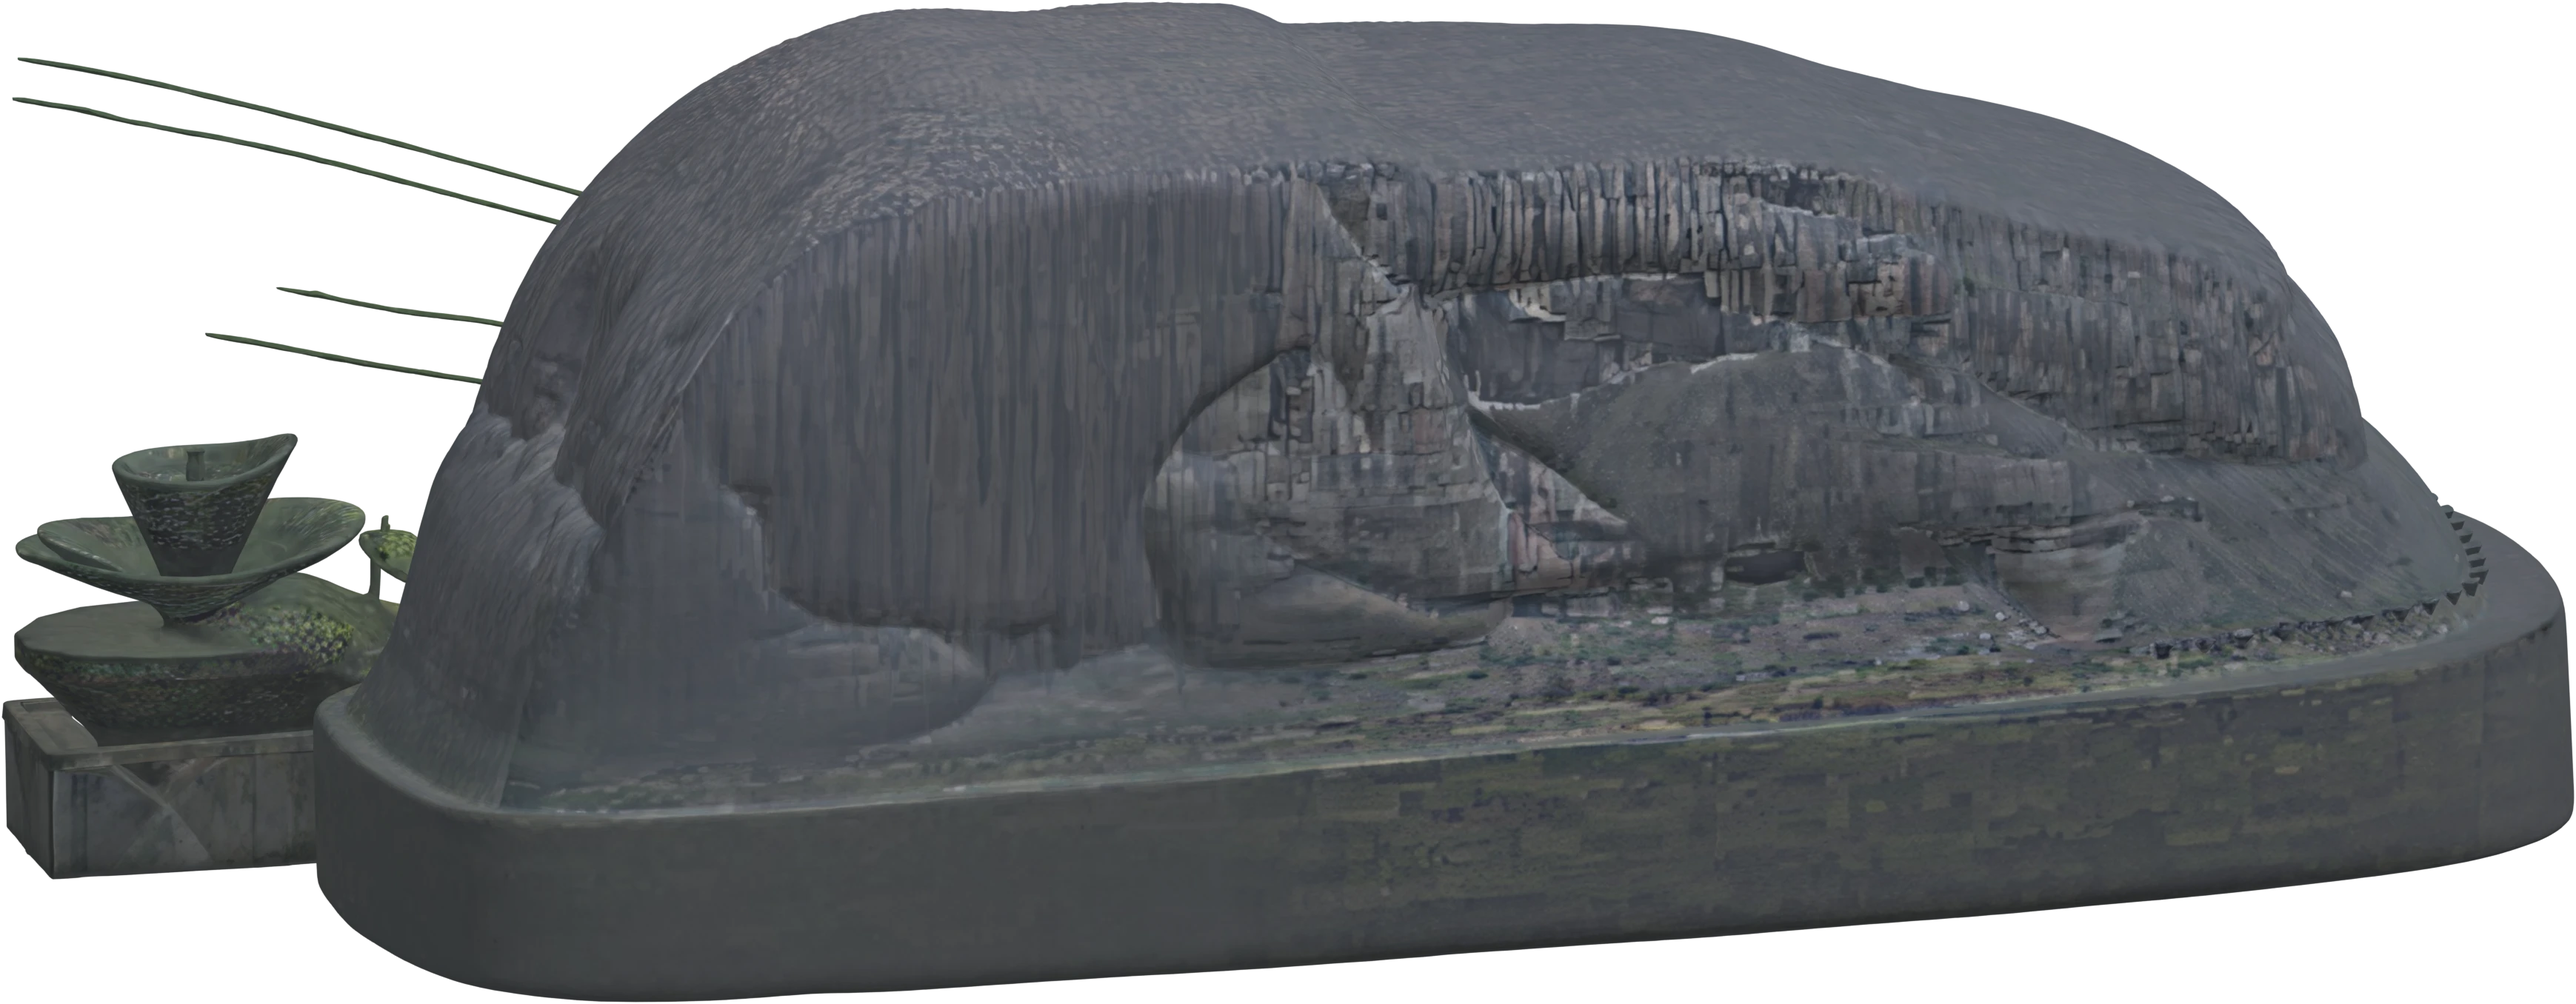
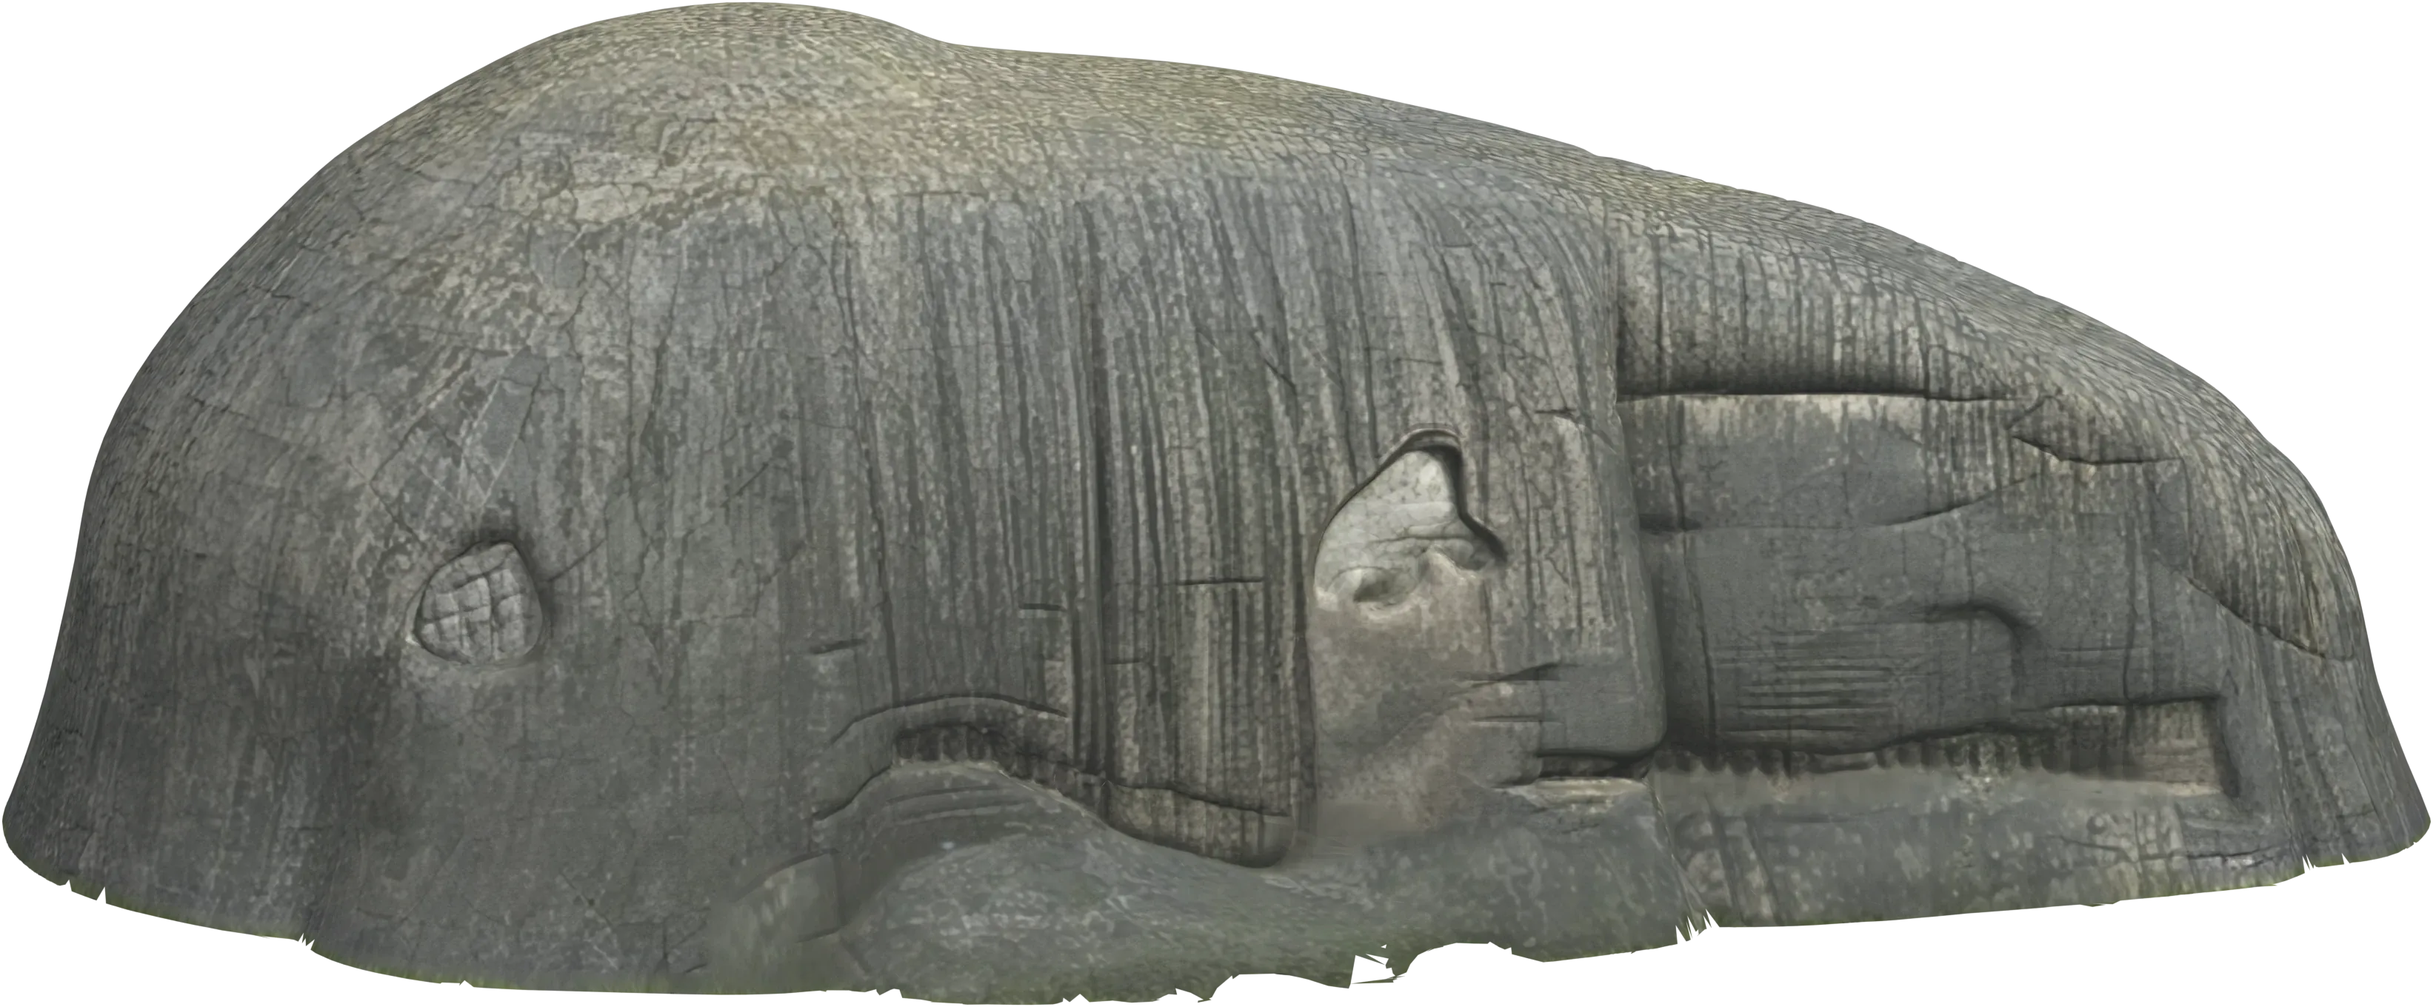
Légende (canal de test) : Sagrada Família, Zuma Rock, dragon, taxi et bus refaits dans Tripo
La Sagrada était tronquée (photo en contre-plongée), le Zuma Rock un pavé
avec les lignes électriques de sa photo, le dragon du parc Güell des boules
sur deux pieds, le taxi et le bus des boîtes. Chacun repart d'une image
isolée (Nano Banana dans Tripo, d'après une photo Commons pour les trois
premiers) puis d'un Modèle HD H3.1.

- legende_pieces.py : les pièces TRIPO se rendent depuis leur glb
  (assets-sources/legende/refonte-0910), à leur hauteur réelle, avec une
  saturation qui ravive le jaune du taxi et le rouge du bus.
- legende_monuments.py : --sans-herbe retire le disque d'herbe que Tripo
  pose sous un rocher isolé (faces vertes, puis miettes après soudure des
  coutures d'UV) ; --socle coupe sous une hauteur.
- WebP repassés en q80 (711 Ko pour les cinq, 658 avant).

diff --git a/tools/blender/decors/legende_monuments.py b/tools/blender/decors/legende_monuments.py
@@ -3,7 +3,8 @@
 #
 #   blender -b --factory-startup -P tools/blender/decors/legende_monuments.py -- \
 #       --source <modele Tripo .glb|.fbx> --cle londres [--rot 0] [--elev 14] \
-#       [--haut 1400] [--brume r,g,b,part] [--apercu4 vues.png]
+#       [--haut 1400] [--brume r,g,b,part] [--socle 0.04] [--sans-herbe]
+#       [--apercu4 vues.png]
 #
 # Un monument de la Legende ne se pose pas dans le stade : il se tient au
 # loin, derriere la tribune, a une position d'ECRAN (game/legende/decors.ts),
@@ -14,6 +15,9 @@
 #
 # Ce que fait ce script a un modele Tripo :
 #   1. il le reduit (un modele HD fait pres d'un million de faces) ;
+#   1b. avec --socle h, il retire ce qui est sous h (part de la hauteur) ;
+#      avec --sans-herbe, les faces que la texture peint en vert : le disque
+#      d'herbe et les buissons que Tripo pose sous un rocher isole (Zuma) ;
 #   2. il le tourne de `rot` degres pour presenter sa face a la camera (le
 #      mode --apercu4 rend les quatre faces cote a cote pour choisir), pose
 #      son pied a l'origine et le ramene a une unite de haut ;
@@ -52,7 +56,8 @@ def arguments():
         return a[a.index(k) + 1] if k in a else d
     return dict(source=val('--source'), cle=val('--cle'), rot=float(val('--rot', '0')),
                 elev=float(val('--elev', '14')), haut=int(val('--haut', '1400')),
-                brume=val('--brume', '0.62,0.78,0.92,0.10'), apercu4=val('--apercu4'))
+                brume=val('--brume', '0.62,0.78,0.92,0.10'), apercu4=val('--apercu4'),
+                socle=float(val('--socle', '0')), herbe='--sans-herbe' not in a)
 
 
 def importer(src):
@@ -107,6 +112,71 @@ def normaliser(o, rot):
     c = Vector(((mn.x + mx.x) / 2, (mn.y + mx.y) / 2, mn.z))
     me.transform(Matrix.Scale(k, 4) @ Matrix.Translation(-c))
     me.update()
+
+
+def couper_socle(o, h):
+    """Retire les faces toutes sous h (le modele a une unite de haut), puis
+    repose le pied a l'origine."""
+    import bmesh
+    bm = bmesh.new()
+    bm.from_mesh(o.data)
+    bas = [f for f in bm.faces if all(v.co.z < h for v in f.verts)]
+    bmesh.ops.delete(bm, geom=bas, context='FACES')
+    seuls = [v for v in bm.verts if not v.link_faces]
+    bmesh.ops.delete(bm, geom=seuls, context='VERTS')
+    bm.to_mesh(o.data)
+    bm.free()
+    normaliser(o, 0)
+
+
+def couper_herbe(o, image):
+    """Retire les faces dont la texture, au centre de leurs UV, est verte
+    (le vert domine le rouge et le bleu de 12 %), puis repose le pied."""
+    import bmesh
+    w, h = image.size
+    px = np.empty(w * h * 4, dtype=np.float32)
+    image.pixels.foreach_get(px)
+    px = px.reshape(h, w, 4)
+    bm = bmesh.new()
+    bm.from_mesh(o.data)
+    uv = bm.loops.layers.uv.active
+    verts = []
+    for f in bm.faces:
+        u = sum(l[uv].uv.x for l in f.loops) / len(f.loops)
+        v = sum(l[uv].uv.y for l in f.loops) / len(f.loops)
+        r, g, b = px[min(h - 1, max(0, int(v * h))), min(w - 1, max(0, int((u % 1) * w))), :3]
+        if g > 1.12 * r and g > 1.12 * b:
+            verts.append(f)
+    bmesh.ops.delete(bm, geom=verts, context='FACES')
+    # les miettes que la coupe laisse (brins d'herbe gris, bords de buisson) :
+    # tout ilot de moins de 1 % des faces part aussi. Le glb de Tripo est
+    # decoupe aux coutures d'UV : souder d'abord, sinon chaque morceau de
+    # texture du rocher passe pour une miette (le Zuma sortait troue).
+    bmesh.ops.remove_doubles(bm, verts=bm.verts, dist=1e-4)
+    bm.faces.index_update()
+    vu, miettes = set(), []
+    for f0 in bm.faces:
+        if f0.index in vu:
+            continue
+        ilot, pile = [], [f0]
+        vu.add(f0.index)
+        while pile:
+            f = pile.pop()
+            ilot.append(f)
+            for e in f.edges:
+                for g in e.link_faces:
+                    if g.index not in vu:
+                        vu.add(g.index)
+                        pile.append(g)
+        if len(ilot) < 0.01 * len(bm.faces):
+            miettes += ilot
+    bmesh.ops.delete(bm, geom=miettes, context='FACES')
+    seuls = [v for v in bm.verts if not v.link_faces]
+    bmesh.ops.delete(bm, geom=seuls, context='VERTS')
+    bm.to_mesh(o.data)
+    bm.free()
+    normaliser(o, 0)
+    print('HERBE retiree : %d faces, %d en miettes' % (len(verts), len(miettes)))
 
 
 def matiere(o, image, brume):
@@ -248,6 +318,10 @@ def main():
         o = importer(A['source'])
         image = texture(o)
         normaliser(o, 0)
+        if A['socle'] > 0:
+            couper_socle(o, A['socle'])
+        if not A['herbe']:
+            couper_herbe(o, image)
         matiere(o, image, (1, 1, 1, 0))
         for r in (0, 90, 180, 270):
             if r:
@@ -268,6 +342,10 @@ def main():
     if image is None:
         raise RuntimeError('pas de texture dans le modele')
     normaliser(o, A['rot'])
+    if A['socle'] > 0:
+        couper_socle(o, A['socle'])
+    if not A['herbe']:
+        couper_herbe(o, image)
     matiere(o, image, brume)
     W, H, pied = rendre(o, A['elev'], A['haut'], tmp)
     a = lire(tmp)

diff --git a/tools/blender/decors/legende_pieces.py b/tools/blender/decors/legende_pieces.py
@@ -32,6 +32,9 @@
 #              Wallace), reverbere
 #   New York   taxi (le yellow cab), borne (bouche d'incendie), hotdog
 #   Londres    boite (pillar box), bus (impériale), garde (guerite et garde)
+#
+# Le drac, le taxi et le bus ne sont plus modelises ici depuis le 09/10 :
+# ce sont des modeles Tripo, rendus de la meme facon (voir TRIPO plus bas).
 # -----------------------------------------------------------------------
 
 import bpy
@@ -580,7 +583,34 @@ PIECES = {'torii': torii, 'cabine': cabine, 'morris': morris,
           'garde': garde}
 
 
+# Les pieces REFAITES DANS TRIPO (09/10, « le dragon en boules, le taxi en
+# boites ») : le modele HD, le quart de tour qui presente son flanc a la
+# camera (--apercu4 de legende_monuments.py), et sa hauteur reelle en
+# metres, qui donne la largeur ecrite au manifeste ; `sat` ravive la teinte
+# que la texture Tripo rend fade (taxi creme, bus rose). Les modeles vivent hors
+# du depot, dans assets-sources (registre : legende/refonte-0910/registre.txt).
+SOURCES = os.path.abspath(os.path.join(LM.PROJET, '..', 'assets-sources', 'legende', 'refonte-0910'))
+TRIPO = {
+    'drac': dict(source='drac-tripo.glb', rot=0.0, hauteur=1.15),
+    'taxi': dict(source='taxi-tripo.glb', rot=0.0, hauteur=1.48, sat=1.9),
+    'bus': dict(source='bus-tripo.glb', rot=180.0, hauteur=4.38, sat=1.5),
+}
+
+
 def rendre_piece(nom):
+    if nom in TRIPO:
+        T = TRIPO[nom]
+        o = LM.importer(os.path.join(SOURCES, T['source']))
+        image = LM.texture(o)
+        if image is None:
+            raise RuntimeError('pas de texture dans ' + T['source'])
+        LM.normaliser(o, T['rot'])
+        LM.matiere(o, image, (1, 1, 1, 0))
+        xs = [v.co.x for v in o.data.vertices]
+        hauteur = T['hauteur']
+        largeur = (max(xs) - min(xs)) * hauteur
+        ecrire_piece(nom, o, largeur, hauteur, T.get('sat', 1.0))
+        return
     bpy.ops.wm.read_factory_settings(use_empty=True)
     MATS.clear()
     PIECES[nom]()
@@ -597,6 +627,10 @@ def rendre_piece(nom):
     LM.normaliser(o, 0)
     for p in o.data.polygons:
         p.use_smooth = False
+    ecrire_piece(nom, o, largeur, hauteur)
+
+
+def ecrire_piece(nom, o, largeur, hauteur, sat=1.0):
     tmp = '/tmp/legende-piece-%d.png' % os.getpid()
     W, H, pied = LM.rendre(o, 12.0, 900, tmp)
     a = LM.lire(tmp)
@@ -604,6 +638,9 @@ def rendre_piece(nom):
     x0, x1 = max(0, xs.min() - 2), min(W, xs.max() + 3)
     y0, y1 = max(0, ys.min() - 2), min(H, ys.max() + 3)
     a = a[y0:y1, x0:x1]
+    if sat != 1.0:
+        gris = a[..., :3].mean(axis=2, keepdims=True)
+        a[..., :3] = np.clip(gris + (a[..., :3] - gris) * sat, 0, 1)
     f = nom + '.webp'
     LM.ecrire(a, os.path.join(LM.DOSSIER, f))
     man = json.load(open(LM.F_MAN)) if os.path.exists(LM.F_MAN) else {'pieces': {}}

diff --git a/src/assets/legende/decors/CREDITS.md b/src/assets/legende/decors/CREDITS.md
@@ -11,13 +11,16 @@ licence. **À reprendre dans les crédits du jeu avant toute ouverture publique.
 | Londres | `londres.webp` | [Clock Tower - Palace of Westminster, London - September 2006-2](https://commons.wikimedia.org/wiki/File:Clock_Tower_-_Palace_of_Westminster,_London_-_September_2006-2.jpg) | Diliff | CC BY 3.0 |
 | Kyoto | `kyoto.webp` | [Golden Pavilion Kinkaku-ji 2024](https://commons.wikimedia.org/wiki/File:Golden_Pavilion_Kinkaku-ji_2024.jpg) | Nacaru | CC BY-SA 4.0 |
 | İzmir | `izmir.webp` | [Izmir Clock tower 4074](https://commons.wikimedia.org/wiki/File:Izmir_Clock_tower_4074.jpg) | Dosseman | CC BY-SA 4.0 |
-| Barcelone | `barcelone.webp` | [Sagrada Familia 03](https://commons.wikimedia.org/wiki/File:Sagrada_Familia_03.jpg) | Bernard Gagnon | CC BY-SA 3.0 |
+| Barcelone | `barcelone.webp` (refait le 09/10/2026) | [Basilica de la Sagrada Familia (50441441743)](https://commons.wikimedia.org/wiki/File:Basilica_de_la_Sagrada_Familia_(50441441743).jpg), redessinée isolée par Nano Banana (Tripo) avant le modèle | Jose Ramirez | CC BY-SA 2.0 |
 | New York | `newyork.webp` | [Statue of Liberty, Liberty Island, New York - April 2026](https://commons.wikimedia.org/wiki/File:Statue_of_Liberty,_Liberty_Island,_New_York_-_April_2026.jpg) | Christian David | CC BY-SA 4.0 |
-| Abuja | `abuja.webp` | [Zuma Rock in the dry season](https://commons.wikimedia.org/wiki/File:Zuma_Rock_in_the_dry_season.jpg) | Hui Linbo | CC BY-SA 4.0 |
+| Abuja | `abuja.webp` (refait le 09/10/2026) | [Zuma Rock](https://commons.wikimedia.org/wiki/File:Zuma_Rock.jpg), redessinée isolée par Nano Banana (Tripo) avant le modèle | Jeff Attaway | CC BY 2.0 |
 | Menolé | `menole.webp` | [Senegalese colourful canoes](https://commons.wikimedia.org/wiki/File:Senegalese_colourful_canoes.jpg) | Ruth Zurielly Jennings | CC BY-SA 4.0 |
 | Casablanca | `casablanca.webp` | image générée (Tripo, Nano Banana), minaret Hassan II | — | — |
 | Kingston | `kingston.webp` | image générée (Tripo, Nano Banana), sound system | — | — |
 | Apothéose | `apotheose.webp` | image générée (Tripo, Nano Banana), couronne de cristal | — | — |
+| Barcelone | `drac.webp` (09/10/2026) | [Barcelona Parc Güell el drac](https://commons.wikimedia.org/wiki/File:Barcelona_Parc_G%C3%BCell_el_drac.jpg), redessinée isolée par Nano Banana (Tripo) avant le modèle | Isiwal | CC BY-SA 3.0 |
+| New York | `taxi.webp` (09/10/2026) | image générée (Tripo, Nano Banana), yellow cab, rendu de profil (l’ovale de marque de la calandre n’y paraît pas) | — | — |
+| Londres | `bus.webp` (09/10/2026) | image générée (Tripo, Nano Banana), impériale Routemaster sans publicité | — | — |
 | Olympe | (cité céleste) | peinte au canvas, `src/game/legende/cite-celeste.ts` | — | — |
 | Apothéose | `arene.webp` | image générée par FLUX.1-schnell (Black Forest Labs, Apache 2.0), modèle 3D par TRELLIS.2 (Microsoft, MIT), arène-astéroïde ; sources dans `assets-sources/legende/apotheose/` | — | — |
 | Paris | (tour du Champ-de-Mars) | `public/decors/champdemars/tour.webp`, déjà servie avec le jeu | — | — |
